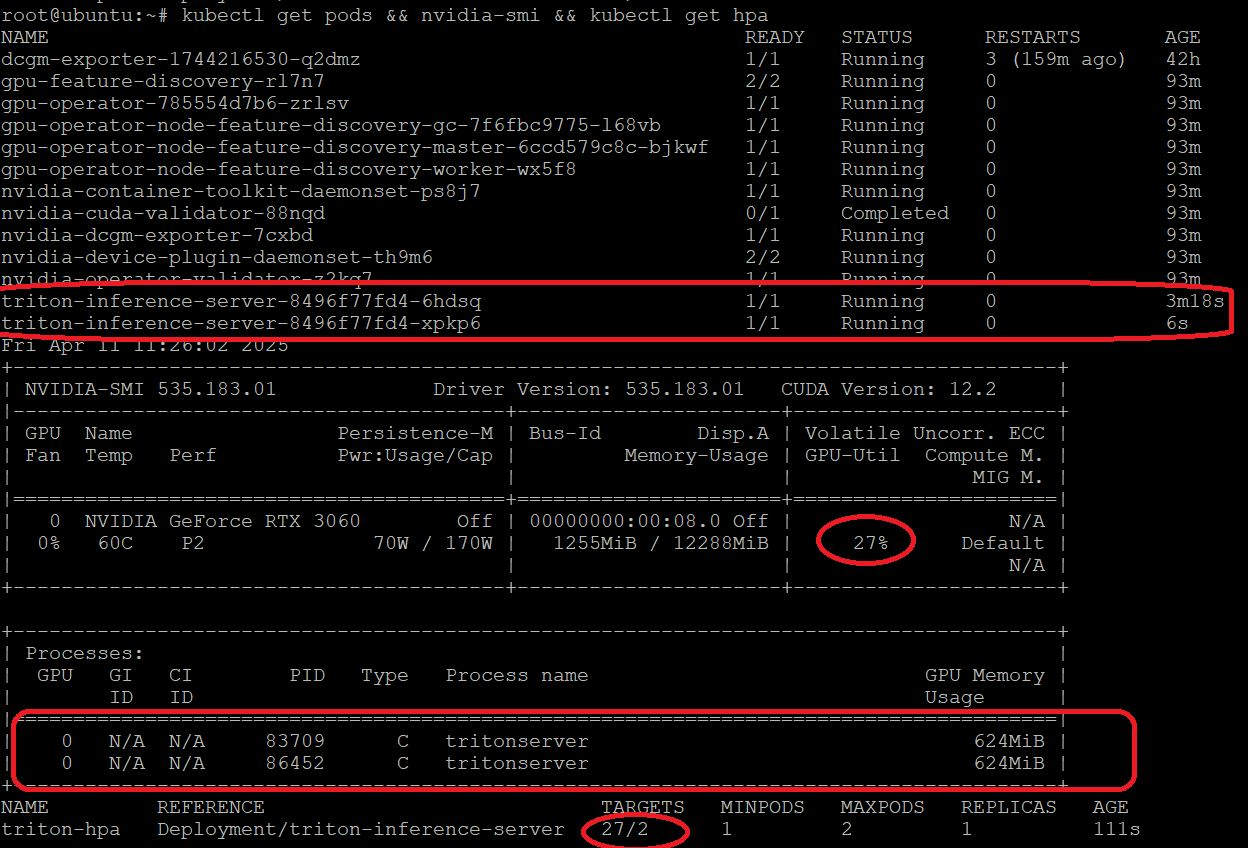
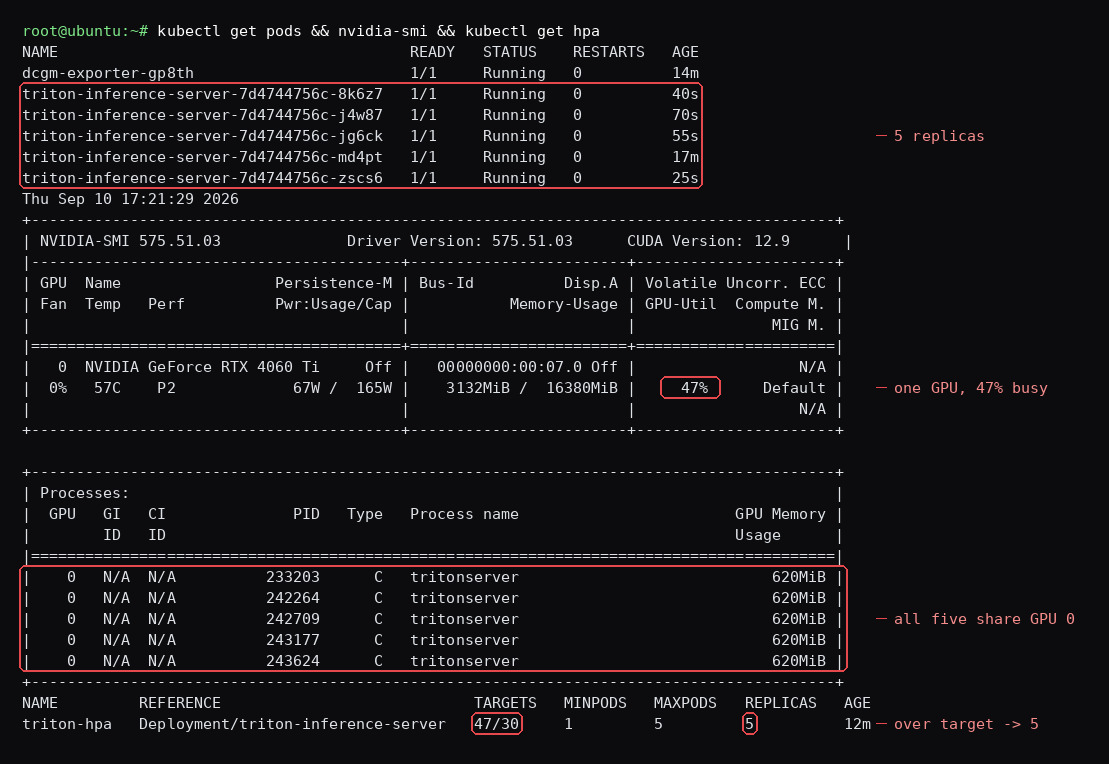
Refresh the images so they match what the guide now says
result.jpg was a screenshot from the old setup and actively contradicted the
new instructions: it showed the GPU Operator pod set the README now tells you
not to install, the `dcgm-exporter-1744216530` generated name that was removed,
and an HPA capped at 2 replicas with a target of 2. Recaptured the same three
commands (`kubectl get pods && nvidia-smi && kubectl get hpa`) from the verified
run: five Triton pods, GPU 47% busy, five tritonserver processes sharing GPU 0,
HPA at 47/30 with 5 replicas.

The architecture diagram was still conceptually correct — it never showed the
GPU Operator — but had "DGCM exporter" and "load blancer" baked into the JPG.
Redrew it as SVG from the geometry in the drawio source, so the layout is
unchanged and the labels are fixed. The SVG is theme-aware and carries its own
background, so it stays readable wherever prefers-color-scheme is not evaluated.
Typos fixed in the drawio source too, and the file renamed from _hps_ to _hpa_.

Removed detection_result_nms.jpg: nothing referenced it, and the client could
never produce it (the code path that wrote it was unreachable). detection_result
.jpg from the verified run replaces it. Images now have alt text.

diff --git a/README.md b/README.md
@@ -12,7 +12,7 @@ HorizontalPodAutoscaler adds replicas when **GPU utilisation** rises — not CPU
 not memory. One physical GPU is time-sliced so several Triton pods share it,
 which makes the whole thing demonstrable on a single-GPU machine.
 
-![](docs/images/triton-server-hpa_architecture.jpg?raw=true)
+![Clients hit a Kubernetes service in front of a Triton deployment; DCGM exporter feeds GPU utilisation to Prometheus, the Prometheus adapter and the custom metrics API, which the HPA reads to scale the deployment.](docs/images/triton-server-hpa_architecture.svg?raw=true)
 
 ## What it looks like when it works
 
@@ -375,7 +375,7 @@ python3 inference.py --mode detect --url "$(minikube ip):30001"
 wrote detection_result.jpg
 ```
 
-![](docs/images/detection_result.jpg?raw=true)
+![YOLOv7-tiny detections returned by Triton: a person at 0.91 and a dog at 0.82.](docs/images/detection_result.jpg?raw=true)
 
 ---
 
@@ -508,7 +508,7 @@ Observed run: GPU utilisation crossed 30 % within 10 s, the deployment reached
 five replicas after ~60 s, sustained **~359 req/s**, and returned to a single
 replica about six minutes after the load stopped.
 
-![](docs/images/result.jpg?raw=true)
+![kubectl and nvidia-smi during the load test: five Triton pods Running, GPU 47% busy with five tritonserver processes on GPU 0, HPA showing 47/30 and 5 replicas.](docs/images/result.jpg?raw=true)
 
 ---
 
